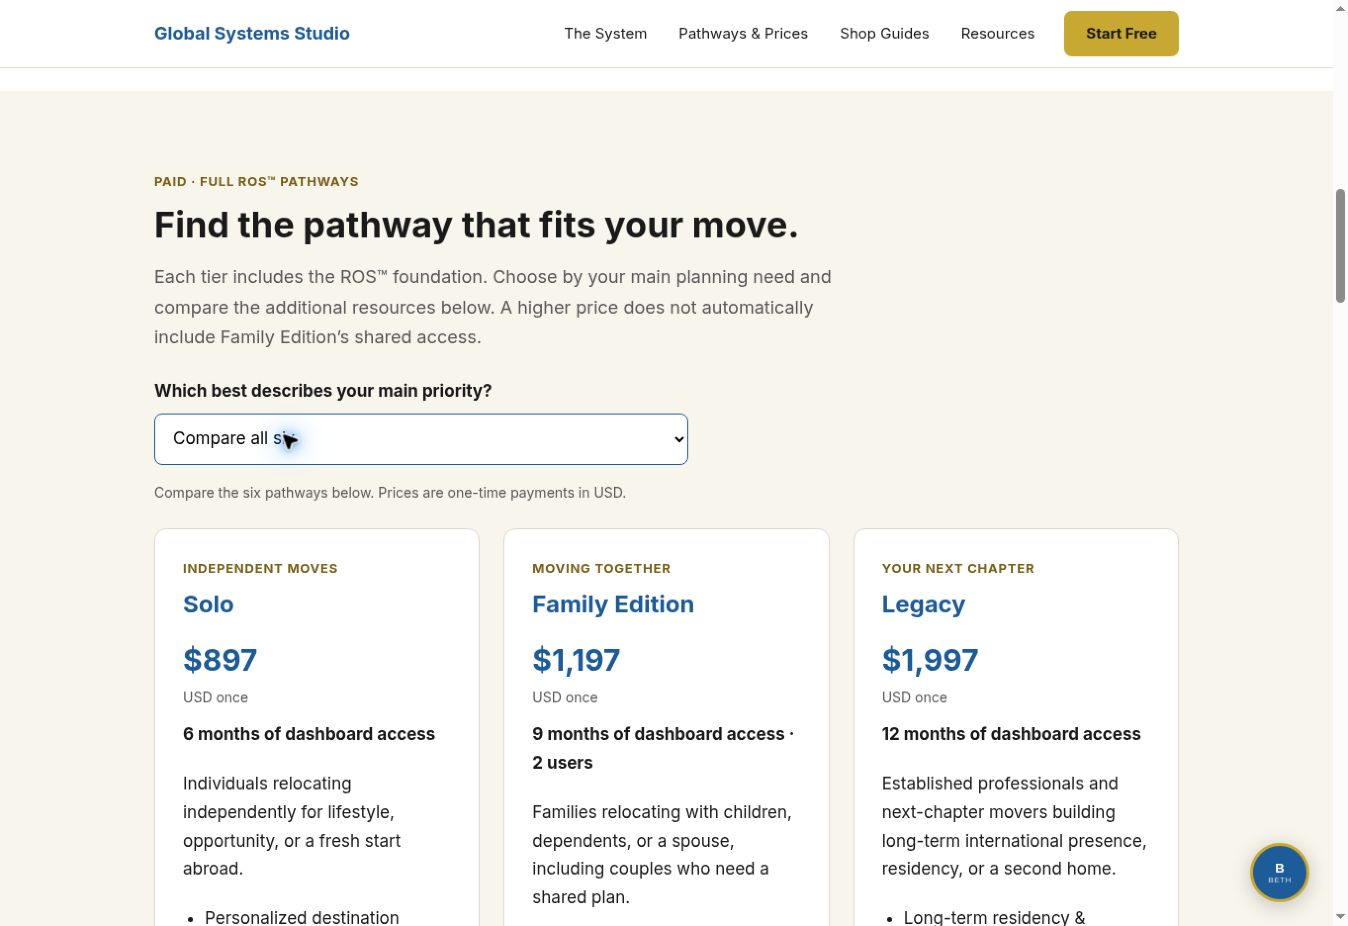
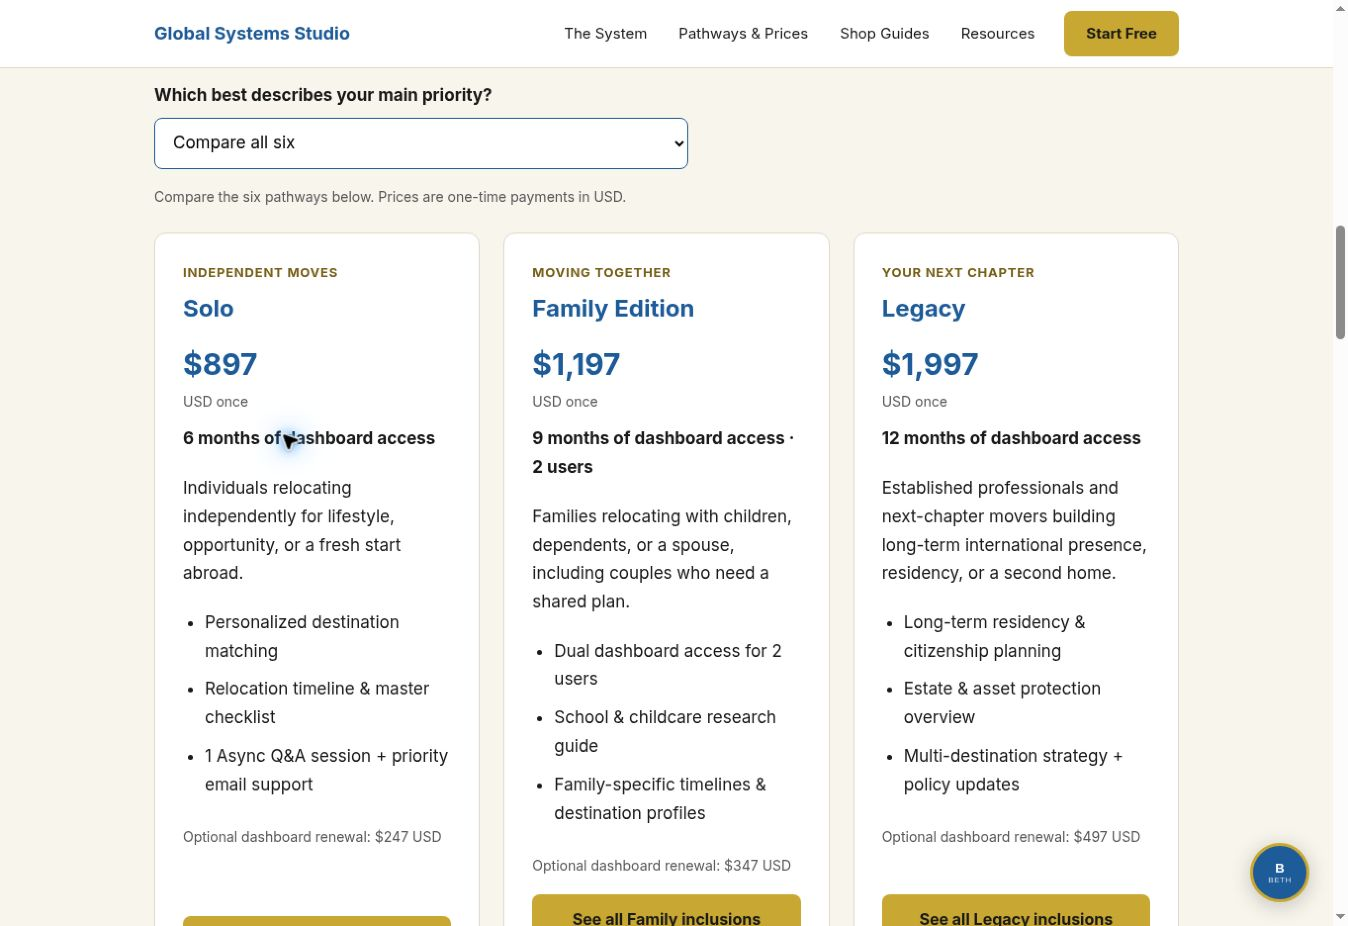
Align Netlify with tested Node 24 runtime and record live QA
The static production build and subscribe-function tests already pass on Node 24.22.1. Use Node 24 for Netlify builds and its derived function runtime. Save the verified live comparison screenshot.

diff --git a/docs/qa/2026-10-24/README.md b/docs/qa/2026-10-24/README.md
@@ -6,7 +6,7 @@ Free tools and the free introductory guide are separate from paid downloads, per
 
 ## Validation
 
-- Production static build, Next.js 14.2.35: passed.
+- Production static build, Next.js 14.2.35 on Node.js 24.22.1: passed. Netlify build and function runtime are aligned to Node.js 24.
 - Crawl of 104 exported HTML documents and 223 distinct internal link/anchor targets: no broken targets or invalid JSON-LD.
 - All six prices, access periods, renewal prices, checkout IDs, common foundation resources and signed-agreement activation terms: passed against the approved catalog.
 - Three server-function tests cover malformed data, correct MailerLite groups and allowed fields, and safe provider errors. External provider responses were mocked; no subscriber was created.
@@ -20,5 +20,7 @@ Free tools and the free introductory guide are separate from paid downloads, per
 A genuine completed purchase and actual booking were not made. Paid pathways still require a signed agreement and manual dashboard setup; service orders generate owner fulfillment notifications. Unknown or mismatched paid orders go to manual review, never price-only fulfillment. Sent-mail checks suppress already-sent captures, but are not an atomic lock against simultaneous duplicate webhooks.
 
 Renewal duration has not been established by the approved tier guide, so the website asks customers to confirm it before purchasing renewal. Completed purchases and completed bookings are not inferred from outbound clicks. GA4 conversion configuration and end-to-end sale/booking attribution still require appropriate account permission and provider integration. This release is not a claim that every destination-specific legal or financial statement in the article archive has been independently re-verified.
+
+The desktop screenshot shows the live public comparison after deployment; the mobile screenshot shows the tested 390px and 360px layouts.
 
 Screenshots: [desktop](desktop.jpg), [mobile](mobile.jpg).
